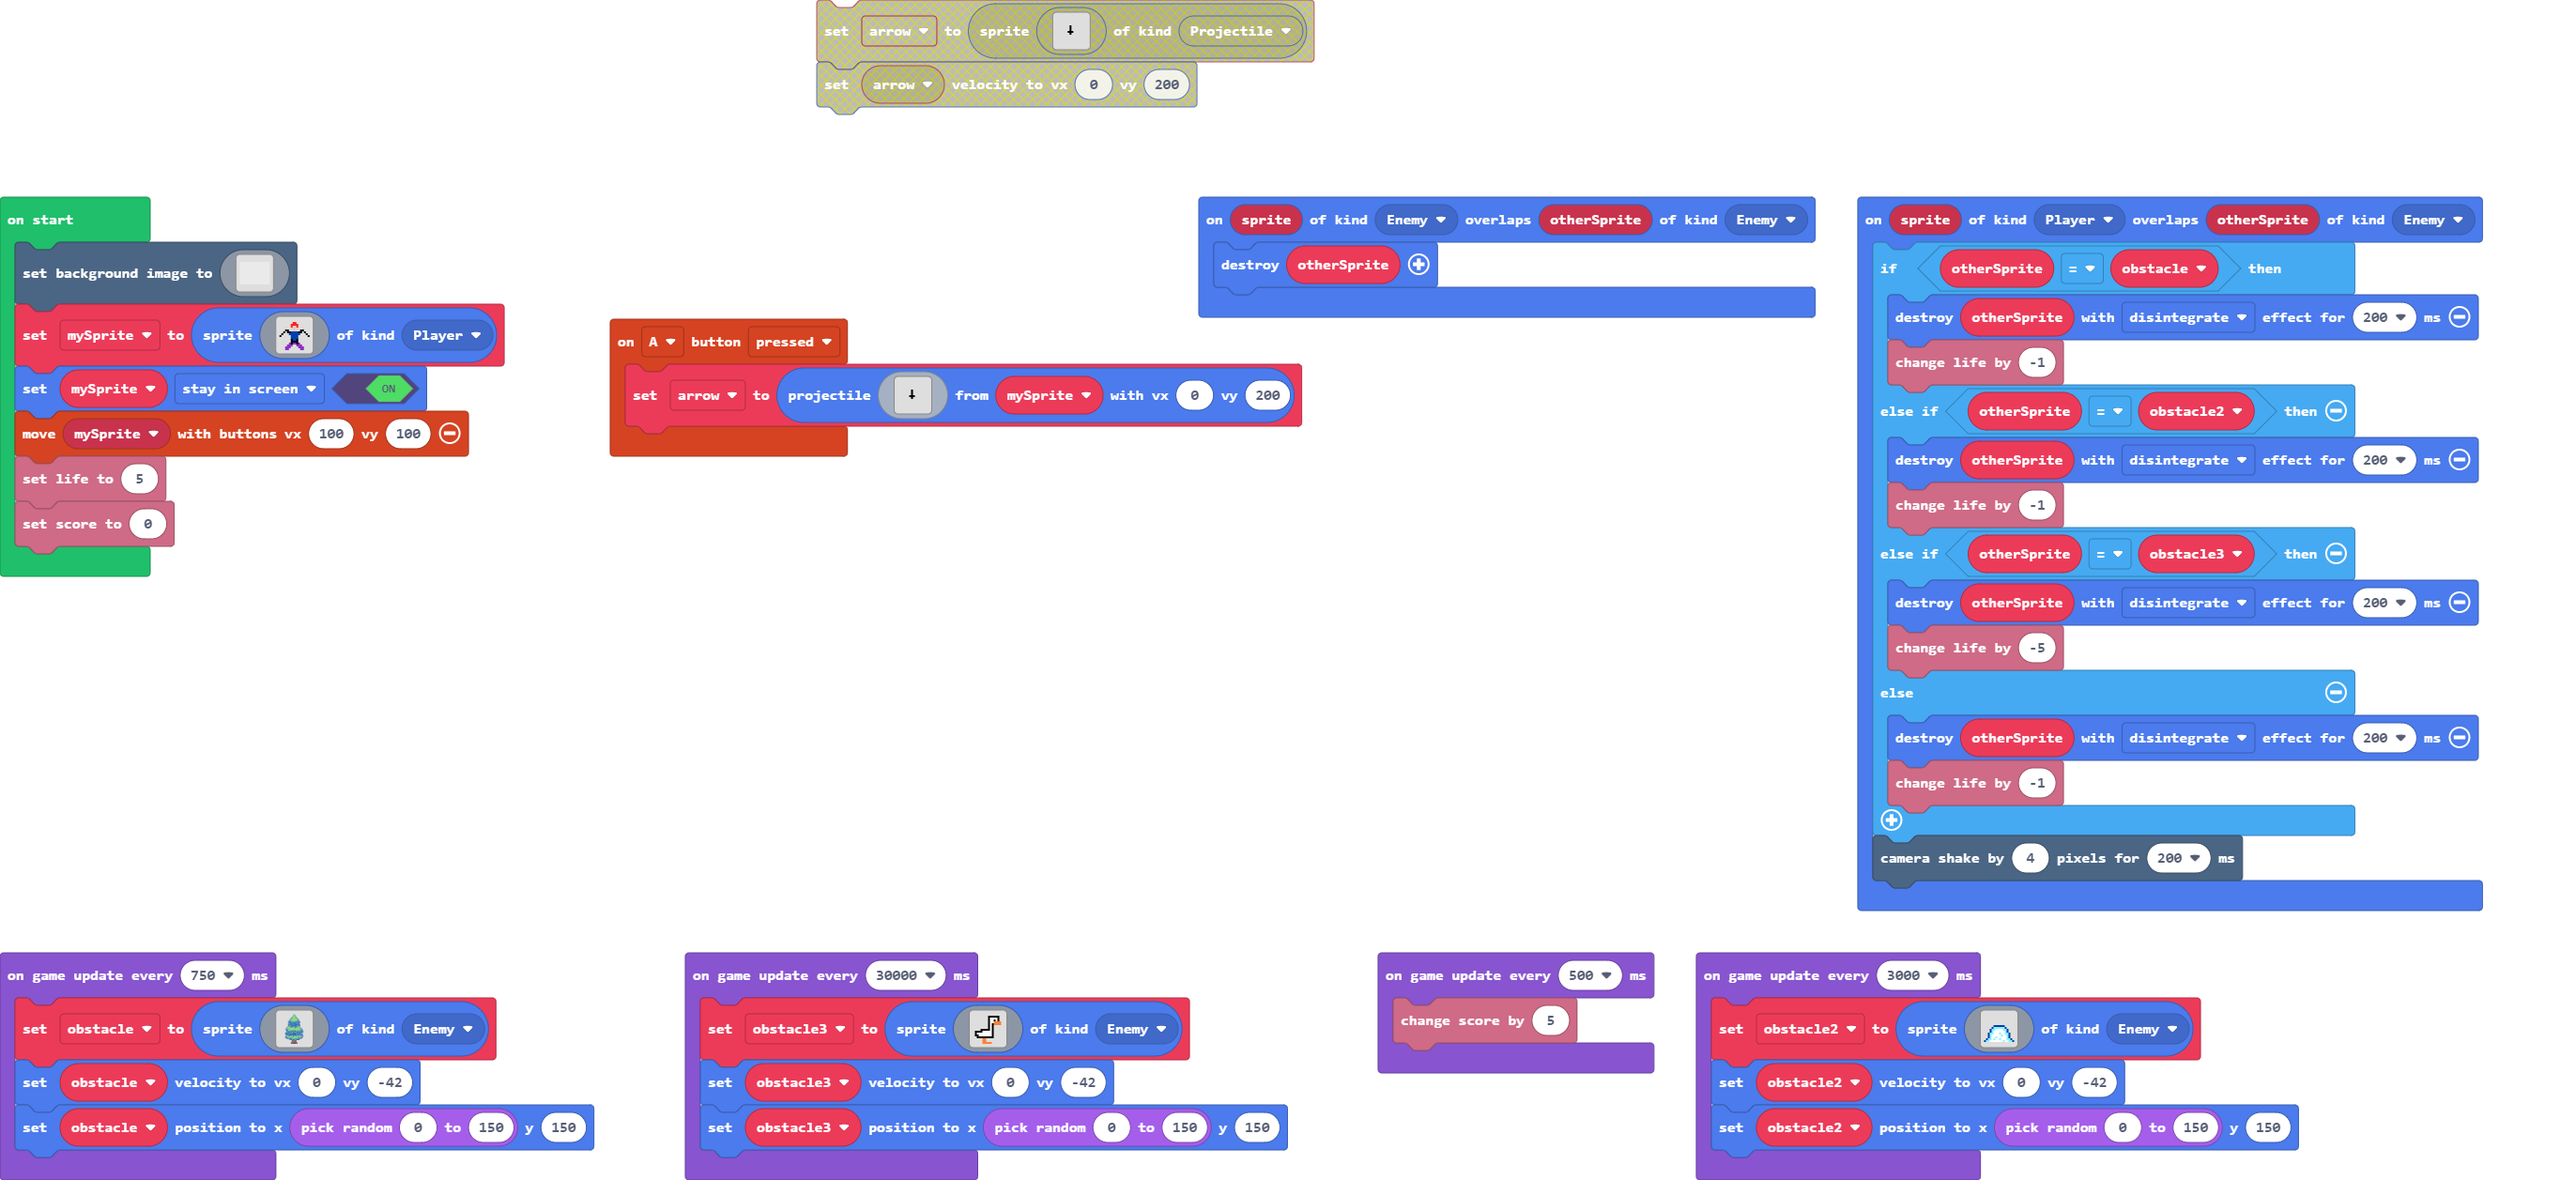
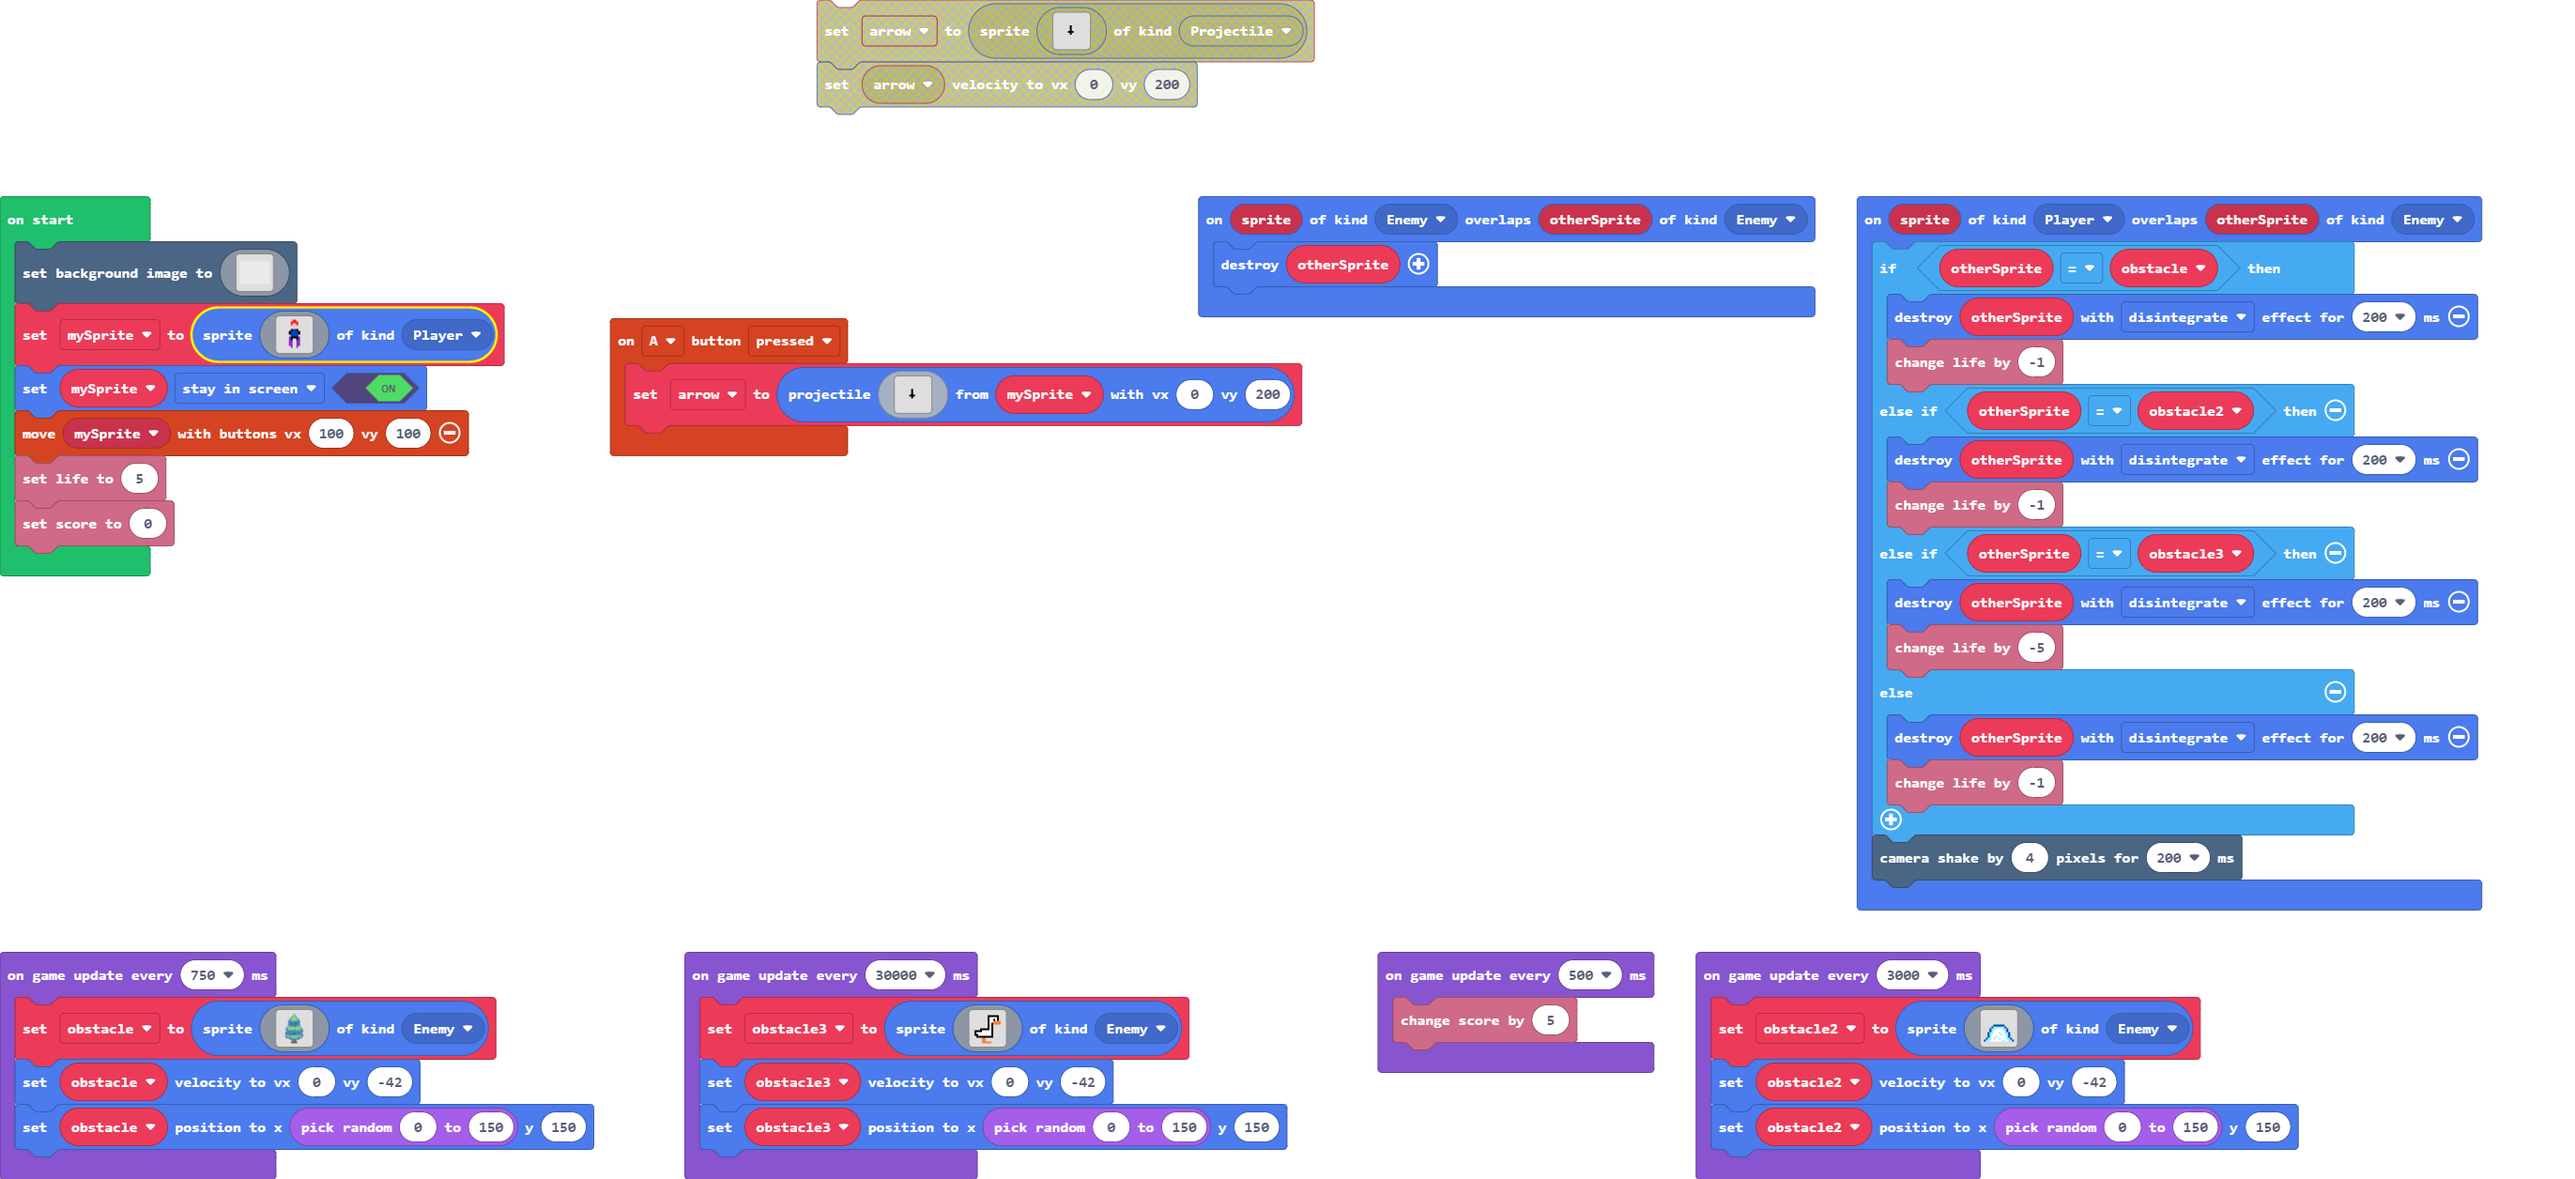
Update main.blocks, main.ts

diff --git a/main.ts b/main.ts
@@ -170,22 +170,22 @@ scene.setBackgroundImage(img`
     1111111111111111111111111111111111111111111111111111111111111111111111111111111111111111111111111111111111111111111111111111111111111111111111111111111111111111
     `)
 mySprite = sprites.create(img`
-    . . . . . . . . . . . . . . . . 
     . . . . . . . 2 2 . . . . . . . 
     . . . . . . 2 2 2 2 . . . . . . 
     . . . . . . 2 d d 2 . . . . . . 
-    . . . d . . d d d d . . d . . . 
-    . . . f f . . d d . . f f . . . 
-    . . f . f f 8 8 8 8 f f . f . . 
-    . f . . . 8 8 8 8 8 8 . . . f . 
-    f . . . . . 8 8 8 8 . . . . . f 
-    . . . . . . 8 8 8 8 . . . . . . 
+    . . . . . . d d d d . . . . . . 
+    . . . . . . . d d . . . . . . . 
     . . . . . . f 8 8 f . . . . . . 
-    . . . . . . f f f f . . . . . . 
-    . . . . . a f a a f a . . . . . 
-    . . . . a a a . . a a a . . . . 
-    . . . a a a . . . . a a a . . . 
-    . . . a a . . . . . . a a . . . 
+    . . . . . f 8 8 8 8 f . . . . . 
+    . . . . d f 8 8 8 8 f d . . . . 
+    . . . . . . 8 8 8 8 . . . . . . 
+    . . . . . a f f f f a . . . . . 
+    . . . . . a f . . f a . . . . . 
+    . . . . . a a . . a a . . . . . 
+    . . . . . a a . . a a . . . . . 
+    . . . . . a a . . a a . . . . . 
+    . . . . . . a . . a . . . . . . 
+    . . . . . . . . . . . . . . . . 
     `, SpriteKind.Player)
 mySprite.setFlag(SpriteFlag.StayInScreen, true)
 controller.moveSprite(mySprite, 100, 100)
